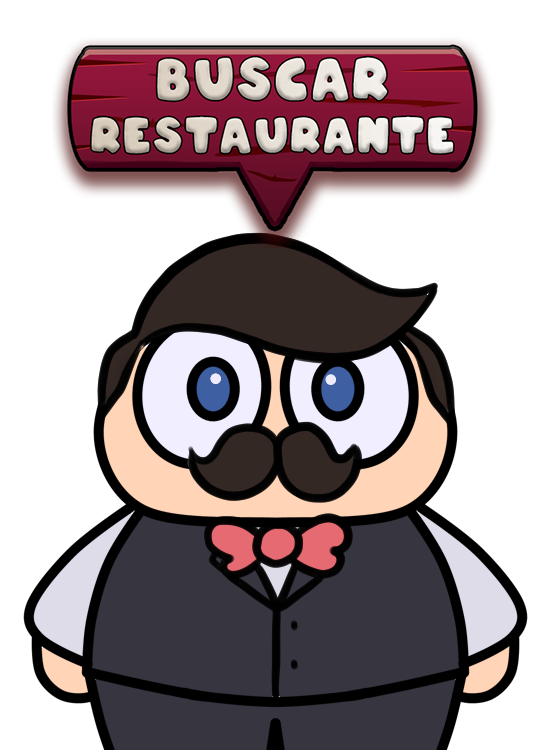
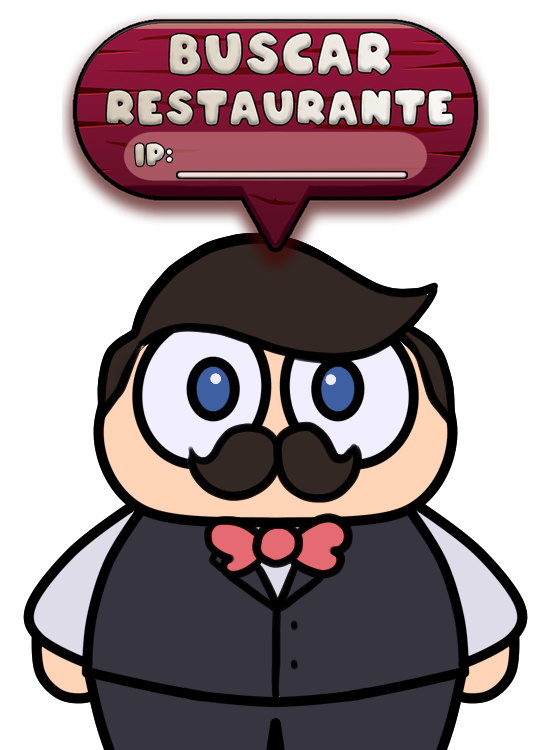
cositas

Changed region(s): [[0.0927, 0.0, 0.8964, 0.3373], [0.7727, 0.368, 0.8036, 0.3987]]

diff --git a/Scenes/HostClient.cpp b/Scenes/HostClient.cpp
@@ -13,7 +13,11 @@ HostClient::HostClient(Game* game) : Scene(game)
 
 	int offsetX = 300, offsetY = 150;
 
-	auto hostButton = new UiButton(game, "cocinera",
+	light = new ParticleExample();
+	light->setRenderer(sdlutils().renderer());
+	light->setStyle(ParticleExample::NONE);
+
+	hostButton = new UiButton(game, "cocinera",
 		sdlutils().width() / 2 - offsetX, sdlutils().height() - 350, 500, 700);
 	hostButton->setInitialDimension(500, 700);
 	hostButton->setAction([](Game* game, bool& exit) {
@@ -24,43 +28,85 @@ HostClient::HostClient(Game* game) : Scene(game)
 		});
 	uiManager->addButton(hostButton);
 
-	auto clientButton = new UiButton(game, "camarero",
+	clientButton = new UiButton(game, "camarero",
 		sdlutils().width() / 2 + offsetX, sdlutils().height() - 350, 500, 700);
 	clientButton->setInitialDimension(500, 700);
 
-	introIp = new UiButton(game, "cuadernillo", sdlutils().width()/2, sdlutils().height()/2 , libretaTexture->width() / 8, libretaTexture->height());
-	introIp->setActive(false);
-
-	ShowText* ip = new ShowText(game, " ", "abadiReview", introIp->getX(), introIp->getY());
+	posYNotOver = 165;
+	posYOver = 145;
+	ip = new ShowText(game, " ", "ip", clientButton->getX() + 20, posYNotOver);
 	ip->setActive(true);
 
-	clientButton->setAction([this, ip](Game* game, bool& exit) {
+	cursor = new ShowText(game, "|", "ipCursor", clientButton->getX() + 20, posYNotOver);
+	cursor->setActive(false);
+
+	clientButton->setAction([this](Game* game, bool& exit) {
 		//Client
-		game->sendMessageScene(new IntroduceIP(game));
-		/*if (!introIp->isActive()) {
-			uiManager->setIpButton(introIp);
+		if (!escribiendo) {
+			escribiendo = true;
+			ih().clearInputBuffer();
+			cursor->setActive(true);
+			tiempo = sdlutils().currRealTime();
 		}
 
 		else {
-			uiManager->setIpButton(nullptr);
-			ip_ = " ";
-			ip->setTexture(ip_, string("abadiNombre"), { 0, 0, 0, 0 }, { 0, 0, 0, 0 });
-			ip->setDimension();
-		}
+			if (esValida(ip_)) {
+				game->sendMessageScene(new IntroduceIP(game));
+			}
 
-		introIp->setActive(!introIp->isActive());
-		ip->setActive(introIp->isActive());*/
+			else {
+				cout << "Ip no valida so zorra";
+			}
+		}
 		});
 
-	introIp->setAction([ip, this](Game* game, bool& exit) {
+	uiManager->addButton(clientButton);
+}
+
+bool HostClient::esValida(string ipText)
+{
+	if (ipText == " ") return false;
+
+	vector<string> aux = split(ipText);
+
+	if (aux.size() < 4) return false;
+
+	for (int i = 0; i < aux.size(); i++) {
+
+		string digito = aux[i];
+
+		if (digito.size() == 0) return false;
+
+		for (int j = 0; j < digito.size(); j++) {
+			
+			if (!std::isdigit(digito[j])) {
+				return false;
+			}
+		}
+
+		if (stoi(digito) >= 256) {
+			return false;
+		}
+	}
+
+	return true;
+}
+
+void HostClient::update()
+{
+	Scene::update();
+	light->update();
+
+	if (escribiendo) {
 
 		char c = ih().getTypedKey();
 
-		if (c != ' ')
+		if (c != ' ' && c != '\r')
 		{
+			if (!escrito) escrito = true;
+
 			if (c == '\b')
 			{
-
 				if (!ip_.empty())
 					ip_.pop_back();
 				else
@@ -74,17 +120,68 @@ HostClient::HostClient(Game* game) : Scene(game)
 			if (ip_.empty())
 				ip_ = ' ';
 
-			ip->setTexture(ip_, string("abadiNombre"), { 0, 0, 0, 0 }, { 0, 0, 0, 0 });
+			ip->setTexture(ip_, string("ip"), {255,255,255,0}, { 0, 0, 0, 0 });
 			ip->setDimension();
 
 		}
 		ip->render(nullptr);
-		});
+	}
+	//Preguntar isHover y 
+	if (clientButton->hover()) {
+		ip->setPosition(ip->getX(), posYOver);
+		cursor->setPosition(cursor->getX(), posYOver);
+		light->setStyle(ParticleExample::GALAXY);
+		light->setPosition(clientButton->getX(), clientButton->getY());
+	}
 
-	uiManager->addInterfaz(ip);
-	uiManager->addButton(clientButton);
+	else {
+		ip->setPosition(ip->getX(), posYNotOver);
+		cursor->setPosition(cursor->getX(), posYNotOver);	
+	}
+
+	if (hostButton->hover()) {
+		light->setStyle(ParticleExample::GALAXY);
+		light->setPosition(hostButton->getX(), hostButton->getY());
+	}
+
 }
 
+vector<string> HostClient::split(string ipText)
+{
+	vector<string> ip;
+	char delimitador = '.';
+
+	string digitos = "";
+
+	for (int i = 0; i < ipText.size(); i++) {
+		if (ipText[i] != delimitador) {
+			digitos += ipText[i];
+			if(i + 1 == ipText.size()) ip.push_back(digitos);
+		}
+
+		else {
+			ip.push_back(digitos);
+			digitos = "";
+		}
+	}
+
+	return ip;
+}
+
+void HostClient::render() {
+	fondo->render(camara->renderRect());
+	objectManager->render(camara->renderRect());
+	light->draw(camara->renderRect());
+	uiManager->render(nullptr); // ponemos nullptr para que se mantenga en la pantalla siempre
+	ip->render(nullptr);
+
+	if (!escrito && sdlutils().currRealTime() - tiempo > frameRate) {
+		cursor->render(nullptr);
+		tiempo = sdlutils().currRealTime();
+	}
+
+	textMngr->render();
+}
 
 
 

diff --git a/GameObjects/UI/UIManager.cpp b/GameObjects/UI/UIManager.cpp
@@ -83,6 +83,7 @@ void UIManager::uiEvent(int mx, int my, bool& exit, bool paused)
 	}
 
 	for(auto i : botones)
+		
 		if (i->isActive() && i->onClick(mx, my, exit)) {
 			mx = -100;
 			my = -100;
@@ -172,23 +173,6 @@ void UIManager::uiEvent(int mx, int my, bool& exit, bool paused)
 		}
 	}
 
-	if (ip != nullptr) {
-		if (ip->isActive()) {
-
-			SDL_Point mouseP = { ih().getmx(), ih().getmy() };
-			SDL_Rect sliderColl = ip->getCollider();
-
-			if (SDL_PointInRect(&mouseP, &sliderColl) == SDL_TRUE)
-			{
-				escribiendoIP = !escribiendoIP;
-				ih().clearInputBuffer();
-				mx = -100;
-				my = -100;
-
-			}
-		}
-	}
-
 	for (int i = 0; i < interfaz.size(); ++i)
 	{
 		if (interfaz[i]->isActive() && !paused)
@@ -230,10 +214,6 @@ void UIManager::handleInput(bool& exit, bool paused)
 
 	else if (escribiendoNombre) {
 		nombre->execute(exit);
-	}
-
-	else if (escribiendoIP) {
-		ip->execute(exit);
 	}
 
 	else if (ih().getMouseButtonHeld()) {
@@ -422,17 +402,6 @@ void UIManager::render(SDL_Rect* rect = nullptr)
 		{
 			i->render(rect);
 		}
-	}
-
-	if (ip != nullptr) {
-
-		//if (sdlutils().virtualTimer().currTime() - tiempo >= sigAnimg + TIEMPO_PROCESADO / 8) {
-
-		//	clip.x = i * clip.w;
-		//	if (i < 7) i++;
-		//	sigAnimg += TIEMPO_PROCESADO / 8;
-		//}
-		ip->render(rect);
 	}
 
 	for (auto i : botones)
@@ -964,14 +933,8 @@ void UIManager::creaMenuOpciones()
 
 			nombre->setTexture(nombrePlayer, string("abadiNombre"), { 255, 255, 255, 255 }, { 0, 0, 0, 0 });
 			nombre->setDimension();
-
-			//cursor_->setPosition(nombre->getX() + nombre->getWidth(), nombre->getY());
-
-			//cursor_->setTexture(cursor, string("abadiNombre"), { 255, 255, 255, 255 }, { 0, 0, 0, 0 });
-			//cursor_->setDimension();
 		}
 		nombre->render(nullptr);
-		//cursor_->render(nullptr);
 		});
 
 	optionsMenu.push_back(nombre);
@@ -1589,13 +1552,4 @@ void UIManager::quitaFoco()
 			return t.progress() == 1.0f;
 			});
 	}
-}
-
-void UIManager::setIpButton(UiButton* ip_)
-{
-	if (ip_ == nullptr) {
-		escribiendoIP = false;
-	}
-
-	ip = ip_;
 }

diff --git a/Scenes/HostClient.h b/Scenes/HostClient.h
@@ -1,14 +1,34 @@
 #pragma once
 #include "Scene.h"
+#include "../Utils/ParticleExample.h"
+
 class HostClient : public Scene
 {
-	int maxCaracteres = 15;
+	int maxCaracteres = 16;
 	string ip_ = "";
-	UiButton* introIp;
+	ParticleExample *light;
 
-	SDL_Rect clip;
-	Texture* libretaTexture = &sdlutils().images().at("cuadernillo");
+	ShowText* ip;
+	ShowText* cursor;
+	UiButton* clientButton;
+	UiButton* hostButton;
+
+	int posYOver = 0;
+	int posYNotOver = 0;
+
+	bool escribiendo = false;
+	bool escrito = false;
+
+	float frameRate = 800;
+	float tiempo;
+
+	bool esValida(string ipText);
+	vector<string>split(string ipText);
+
 public:
 	HostClient(Game* game);
+
+	void update() override;
+	void render() override;
 };
 

diff --git a/Scenes/Jornada.cpp b/Scenes/Jornada.cpp
@@ -85,6 +85,7 @@ Jornada::Jornada(Game* game, string tilemap, int numeroJornada, bool host_) : Sc
 	camara = new Camera(*new Vector2D<float>(0, 16), sdlutils().width(), sdlutils().height());
 
 	uiManager->addInterfaz(new RedactaComandabutton(game, uiManager, "redactaboton", 10, 10, 30, 30));
+	uiManager->addInterfaz(new Imagen(game, 50, 20, 40, 40, "R"));
 	uiManager->setBarra(new ListaComandas(game, uiManager));
 
 	uiManager->creaMenuPausa();

diff --git a/Control/Game.cpp b/Control/Game.cpp
@@ -12,6 +12,8 @@
 #include "../Control/NetworkManager.h"
 #include "../Control/TextManager.h"
 
+#include "../GameObjects/Ingrediente.h"
+
 
 Game::Game() {	
 	srand(time(NULL));
@@ -28,6 +30,8 @@ void Game::init()
 
 	ih().setGame(this);
 	nm = new NetworkManager(this);
+
+	setNombre(texturaIngrediente[sdlutils().rand().nextInt(0, texturaIngrediente.size())]);
 
 	currentScene = new Menu(this);
 }

diff --git a/GameObjects/UI/UIManager.h b/GameObjects/UI/UIManager.h
@@ -72,7 +72,6 @@ class UIManager
 	string cursor = "|";
 	const int maxCaracteres = 15;
 	bool escribiendoNombre = false;
-	bool escribiendoIP = false;
 
 	bool enLobby = false;
 	uint8_t tiempoCreacion = 2000;
@@ -145,7 +144,5 @@ public:
 
 	bool getEnAjustes() { return enAjustes; };
 	void setEnJornada(bool b);
-
-	void setIpButton(UiButton *ip_);
 };
 

diff --git a/Scenes/Lobby.cpp b/Scenes/Lobby.cpp
@@ -106,7 +106,7 @@ Lobby::Lobby(Game* game, string nombreHost) : Scene(game)
 void Lobby::clienteUnido(std::string nombreCliente)
 {
 	comenzar->setTexture("start");
-	camarero->setTexture("camarero");
+	camarero->setTexture("camareroLobby");
 
 	uiManager->setEnLobby(false);
 

diff --git a/Control/Game.h b/Control/Game.h
@@ -28,7 +28,7 @@ class Game {
 
     queue<MessageChangeScene> qScene;
 
-    string nombre = "elbaginon";
+    string nombre = "Cojoncio";
 
     Vector2D<double> slideSon = {0,0};
     Vector2D<double> slideMus = {0,0};

diff --git a/Utils/ParticleExample.h b/Utils/ParticleExample.h
@@ -22,7 +22,7 @@ public:
         EXPLOSION,
         SMOKE,
         SNOW,
-        RAIN,
+        RAIN
     };
 
     PatticleStyle style_ = NONE;
